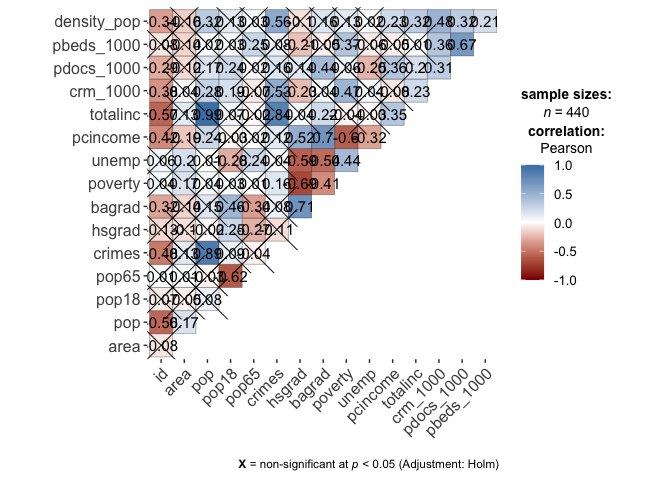
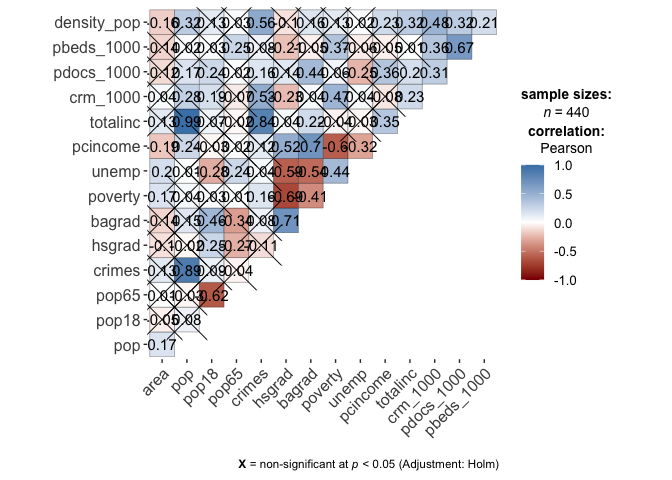
transformation

Changed region(s): [[0.0625, 0.0, 0.75, 0.9062]]

diff --git a/draft_yma.md b/draft_yma.md
@@ -55,6 +55,14 @@ skimr::skim(cdi_descriptive) %>%
 
 Global Summary
 
+``` r
+ggplot(gather(cdi_descriptive), aes(value)) + 
+    geom_histogram(bins = 13) + 
+    facet_wrap(~key, scales = 'free_x')
+```
+
+![](draft_yma_files/figure-gfm/statistic%20summary-1.png)<!-- -->
+
 Q: 1. do we need to group them by state or county? group by gounty gives
 5000+ rows though… 2. do we need box plot still? 3. again, transfer some
 variables to “per pop” / “per 1000 pop” ?
@@ -136,7 +144,7 @@ library(ggstatsplot)
 
 ``` r
 ggstatsplot::ggcorrmat(
-  data = cdi,
+  data = cdi_descriptive,
   type = "parametric", # parametric for Pearson, nonparametric for Spearman's correlation
   colors = c("darkred", "white", "steelblue") # change default colors
 )
@@ -383,13 +391,6 @@ filter(cty == “Baltimor”) cdi %&gt;% filter(cty == “St.\_Loui”)
 
 #### Full model predictors ok?
 
-included pop in addition to pop18, pop65. Do we need pop tho? Would
-pop18 and pop65 be enough already?
-
-did not include cty, state, area, crimes, totalinc, totalinc (included
-pcincome), do we need to include any of those? for example, both
-totalinc and pcincome, area and pop\_den
-
 this model used `northeast` as the reference level for region
 
 ``` r
@@ -431,6 +432,132 @@ summary(full_fit)
     ## Residual standard error: 17.81 on 425 degrees of freedom
     ## Multiple R-squared:  0.589,  Adjusted R-squared:  0.5755 
     ## F-statistic: 43.51 on 14 and 425 DF,  p-value: < 2.2e-16
+
+``` r
+olsrr::ols_plot_resid_qq(full_fit)
+```
+
+![](draft_yma_files/figure-gfm/unnamed-chunk-23-1.png)<!-- -->
+
+``` r
+olsrr::ols_plot_resid_fit(full_fit)
+```
+
+![](draft_yma_files/figure-gfm/unnamed-chunk-23-2.png)<!-- -->
+
+## Transformation
+
+``` r
+lambda = MASS::boxcox(full_fit)
+```
+
+![](draft_yma_files/figure-gfm/unnamed-chunk-24-1.png)<!-- -->
+
+``` r
+optlam = lambda$x[which.max(lambda$y)]
+optlam
+```
+
+    ## [1] 0.5454545
+
+The lambda from the transformation is 0.5454, so we will try to fit a
+square root transformation to y
+
+``` r
+trans_fit = lm(crm_1000^0.5 ~ .,data = cdi_model)
+summary(trans_fit)
+```
+
+    ## 
+    ## Call:
+    ## lm(formula = crm_1000^0.5 ~ ., data = cdi_model)
+    ## 
+    ## Residuals:
+    ##     Min      1Q  Median      3Q     Max 
+    ## -4.0410 -0.7300  0.0708  0.7485  4.0273 
+    ## 
+    ## Coefficients:
+    ##                       Estimate Std. Error t value Pr(>|t|)    
+    ## (Intercept)         -1.645e+00  1.802e+00  -0.913 0.361766    
+    ## pop                  3.624e-07  1.039e-07   3.488 0.000537 ***
+    ## pop18                6.320e-02  2.174e-02   2.907 0.003844 ** 
+    ## pop65               -3.609e-03  2.009e-02  -0.180 0.857548    
+    ## hsgrad               3.479e-02  1.769e-02   1.966 0.049933 *  
+    ## bagrad              -3.472e-02  1.954e-02  -1.777 0.076307 .  
+    ## poverty              1.192e-01  2.542e-02   4.688 3.72e-06 ***
+    ## unemp                4.305e-02  3.496e-02   1.232 0.218783    
+    ## pcincome             9.589e-05  3.114e-05   3.079 0.002213 ** 
+    ## regionnorth central  7.062e-01  1.797e-01   3.929 9.94e-05 ***
+    ## regionsouth          1.996e+00  1.749e-01  11.413  < 2e-16 ***
+    ## regionwest           1.674e+00  2.056e-01   8.142 4.37e-15 ***
+    ## pdocs_1000          -3.845e-02  6.706e-02  -0.573 0.566744    
+    ## pbeds_1000           2.120e-01  5.223e-02   4.059 5.86e-05 ***
+    ## density_pop          2.150e-04  2.984e-05   7.203 2.69e-12 ***
+    ## ---
+    ## Signif. codes:  0 '***' 0.001 '**' 0.01 '*' 0.05 '.' 0.1 ' ' 1
+    ## 
+    ## Residual standard error: 1.171 on 425 degrees of freedom
+    ## Multiple R-squared:  0.5602, Adjusted R-squared:  0.5457 
+    ## F-statistic: 38.66 on 14 and 425 DF,  p-value: < 2.2e-16
+
+``` r
+olsrr::ols_plot_resid_fit(trans_fit)
+```
+
+![](draft_yma_files/figure-gfm/unnamed-chunk-25-1.png)<!-- -->
+
+``` r
+olsrr::ols_plot_resid_qq(trans_fit)
+```
+
+![](draft_yma_files/figure-gfm/unnamed-chunk-25-2.png)<!-- -->
+
+``` r
+lambda_trans = MASS::boxcox(trans_fit)
+```
+
+![](draft_yma_files/figure-gfm/unnamed-chunk-25-3.png)<!-- -->
+
+``` r
+optlam_trans = lambda_trans$x[which.max(lambda_trans$y)]
+lambda_trans
+```
+
+    ## $x
+    ##   [1] -2.00000000 -1.95959596 -1.91919192 -1.87878788 -1.83838384 -1.79797980
+    ##   [7] -1.75757576 -1.71717172 -1.67676768 -1.63636364 -1.59595960 -1.55555556
+    ##  [13] -1.51515152 -1.47474747 -1.43434343 -1.39393939 -1.35353535 -1.31313131
+    ##  [19] -1.27272727 -1.23232323 -1.19191919 -1.15151515 -1.11111111 -1.07070707
+    ##  [25] -1.03030303 -0.98989899 -0.94949495 -0.90909091 -0.86868687 -0.82828283
+    ##  [31] -0.78787879 -0.74747475 -0.70707071 -0.66666667 -0.62626263 -0.58585859
+    ##  [37] -0.54545455 -0.50505051 -0.46464646 -0.42424242 -0.38383838 -0.34343434
+    ##  [43] -0.30303030 -0.26262626 -0.22222222 -0.18181818 -0.14141414 -0.10101010
+    ##  [49] -0.06060606 -0.02020202  0.02020202  0.06060606  0.10101010  0.14141414
+    ##  [55]  0.18181818  0.22222222  0.26262626  0.30303030  0.34343434  0.38383838
+    ##  [61]  0.42424242  0.46464646  0.50505051  0.54545455  0.58585859  0.62626263
+    ##  [67]  0.66666667  0.70707071  0.74747475  0.78787879  0.82828283  0.86868687
+    ##  [73]  0.90909091  0.94949495  0.98989899  1.03030303  1.07070707  1.11111111
+    ##  [79]  1.15151515  1.19191919  1.23232323  1.27272727  1.31313131  1.35353535
+    ##  [85]  1.39393939  1.43434343  1.47474747  1.51515152  1.55555556  1.59595960
+    ##  [91]  1.63636364  1.67676768  1.71717172  1.75757576  1.79797980  1.83838384
+    ##  [97]  1.87878788  1.91919192  1.95959596  2.00000000
+    ## 
+    ## $y
+    ##   [1] -930.4285 -919.7730 -909.2542 -898.8734 -888.6317 -878.5305 -868.5708
+    ##   [8] -858.7537 -849.0805 -839.5520 -830.1693 -820.9334 -811.8450 -802.9050
+    ##  [15] -794.1142 -785.4733 -776.9829 -768.6436 -760.4560 -752.4205 -744.5376
+    ##  [22] -736.8075 -729.2306 -721.8070 -714.5370 -707.4205 -700.4577 -693.6484
+    ##  [29] -686.9927 -680.4903 -674.1409 -667.9444 -661.9003 -656.0083 -650.2679
+    ##  [36] -644.6786 -639.2398 -633.9510 -628.8115 -623.8205 -618.9774 -614.2813
+    ##  [43] -609.7315 -605.3270 -601.0670 -596.9506 -592.9768 -589.1446 -585.4531
+    ##  [50] -581.9013 -578.4880 -575.2124 -572.0733 -569.0696 -566.2004 -563.4645
+    ##  [57] -560.8609 -558.3886 -556.0464 -553.8333 -551.7484 -549.7905 -547.9587
+    ##  [64] -546.2519 -544.6692 -543.2097 -541.8724 -540.6565 -539.5610 -538.5851
+    ##  [71] -537.7279 -536.9888 -536.3669 -535.8616 -535.4721 -535.1978 -535.0381
+    ##  [78] -534.9925 -535.0603 -535.2412 -535.5346 -535.9401 -536.4574 -537.0862
+    ##  [85] -537.8262 -538.6770 -539.6386 -540.7108 -541.8934 -543.1864 -544.5897
+    ##  [92] -546.1033 -547.7274 -549.4619 -551.3070 -553.2628 -555.3295 -557.5075
+    ##  [99] -559.7968 -562.1978
 
 #### Backward
 
@@ -735,7 +862,7 @@ Cp_b
 Cp_b %>% faraway::Cpplot()
 ```
 
-![](draft_yma_files/figure-gfm/unnamed-chunk-27-1.png)<!-- -->
+![](draft_yma_files/figure-gfm/unnamed-chunk-29-1.png)<!-- -->
 
 size is the number of parameters in the model, Cp is Cp
 
@@ -751,7 +878,7 @@ leaps(x = model.matrix(fit_forward)[,-1],
       method = "Cp") %>% faraway::Cpplot()
 ```
 
-![](draft_yma_files/figure-gfm/unnamed-chunk-28-1.png)<!-- -->
+![](draft_yma_files/figure-gfm/unnamed-chunk-30-1.png)<!-- -->
 
 So, multiple model satisfies the Cp criteria here.
 
